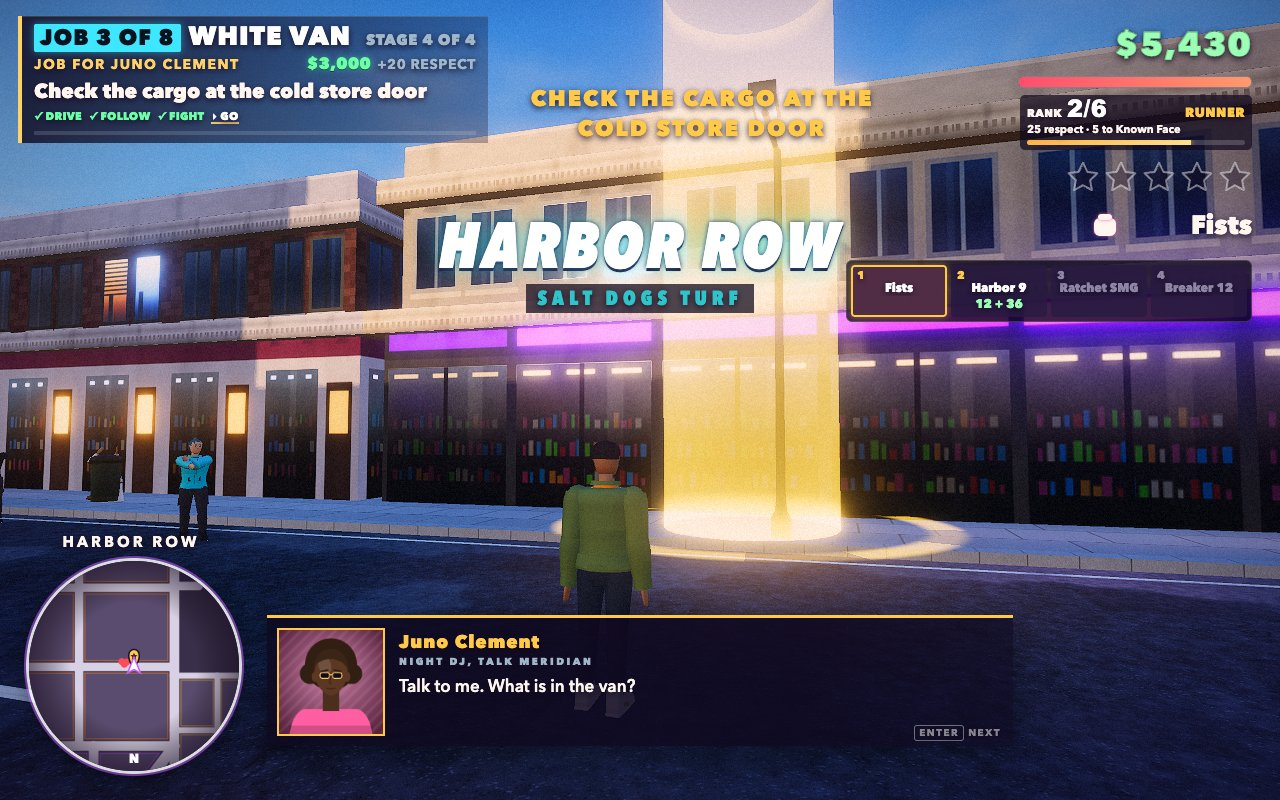
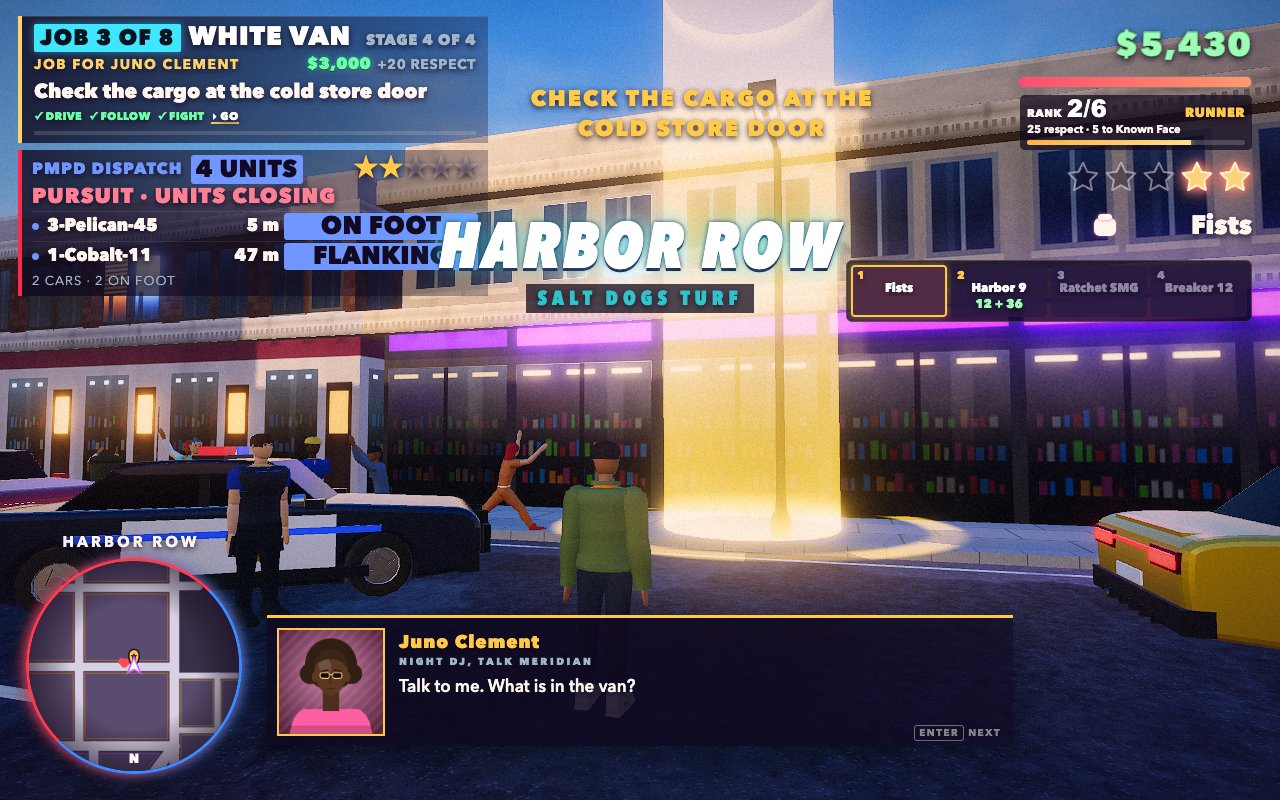
feat(shots): busy Harbor Row street with walkers, traffic and a lit patrol car at two stars

diff --git a/game/src/shotsstreet.js b/game/src/shotsstreet.js
@@ -1,5 +1,7 @@
 // Street screenshot scene: White Van, job 3 of 8, on foot in Harbor Row at dusk. The escort is down, Ilo walks
-// to the Brinewater Cold Store door, Juno asks what is in the van, and the district banner is up.
+// to the Brinewater Cold Store door, Juno asks what is in the van, and the district banner is up. The block is
+// busy: people on the pavement by the shop fronts, cars in both lanes, and a patrol car with its bar lit that has
+// heard the escort go down (two stars).
 import { STORY_POINTS, seedStory } from './shotsstory.js';
 import { storyPlaces } from './missions/setup.js';
 import { MISSION_PLACES } from './data/places.js';
@@ -9,6 +11,19 @@ const CARGO_STAGE = 3;
 const STORE = MISSION_PLACES.find((place) => place.id === 'cold-store');
 /** Ilo's distance out from the door; the camera's distance behind him, its side step and its height. */
 const STREET = { out: 7.5, back: 4.2, side: 1.5, height: 1.8, steps: 60 };
+const STARS = 2;
+const PAINTS = ['#e63946', '#f4f1ea', '#3a86ff', '#ffd23f', '#2ec4b6'];
+
+// [metres out from the shop fronts, metres along the street (screen right is +), facing]: walkers on the pavement
+// going both ways, a pair talking by a door, and a few across the road.
+const WALKERS = [
+  [1.6, -4, 1], [2.4, -5.6, -1], [1.5, -8, -1], [2.7, -9.2, 1], [2.0, -2.6, 1], [2.9, 2.4, -1],
+  [1.6, 3.2, -1], [2.5, 4.4, 1], [1.8, 6.2, -1], [2.6, 8, 1], [1.5, 10, -1], [2.2, 12, 1],
+];
+// [metres out, metres along, facing, type]: cars in the two lanes, one each way, spaced like moving traffic.
+const CARS = [[4.3, -12.5, 1, 'sedan'], [6.0, -18.5, -1, 'coupe'], [4.1, -24, 1, 'pickup'], [4.6, 6.5, 1, 'sedan']];
+/** The patrol car pulled in down the block, nose toward Ilo. */
+const PATROL = { out: 5.6, along: -5, turn: 0.6 };
 
 export const STREET_SHOTS = {
   street: {
@@ -24,12 +39,52 @@ export const STREET_SHOTS = {
       game.missions.jump(JOB, CARGO_STAGE);
       game.hud.announcePlace();
       game.cameraMode = 'manual';
+      const side = { x: store.outZ, z: -store.outX };
+      const at = (out, along) => ({ x: store.x + store.outX * out + side.x * along,
+        z: store.z + store.outZ * out + side.z * along });
+      const alongHeading = (facing) => Math.atan2(side.x * facing, side.z * facing);
+      const cars = CARS.map(([out, along, facing, type], index) => {
+        const car = game.fleet.add(type, PAINTS[index % PAINTS.length]);
+        if (!car) return null;
+        const p = at(out, along);
+        car.position.set(p.x, 0, p.z);
+        car.heading = alongHeading(facing);
+        car.parked = true;
+        return car;
+      });
+      const { police } = game.action;
+      const patrolAt = at(PATROL.out, PATROL.along);
+      const unit = police.units.adopt(game.fleet.reuse('cruiser', '#16203a'), patrolAt.x, patrolAt.z,
+        alongHeading(1) + PATROL.turn);
+      const placeTraffic = () => {
+        cars.forEach((car, index) => {
+          if (!car) return;
+          const [out, along, facing] = CARS[index];
+          const p = at(out, along);
+          car.position.set(p.x, 0, p.z);
+          car.heading = alongHeading(facing);
+        });
+        Object.assign(unit.vehicle, { x: patrolAt.x, z: patrolAt.z, heading: alongHeading(1) + PATROL.turn,
+          vx: 0, vz: 0, speed: 0, yawRate: 0 });
+      };
+      const placeCrowd = () => WALKERS.forEach(([out, along, facing], index) => {
+        const ped = game.pedestrians.peds[index];
+        if (!ped) return;
+        const p = at(out, along);
+        ped.character.position.set(p.x, game.ground.surfaceAt(p.x, p.z).height, p.z);
+        ped.character.heading = alongHeading(facing);
+      });
+      placeCrowd();
       return {
         afterStep(index) {
+          if (index === STREET.steps - 2) {
+            police.setStars(STARS);
+            placeTraffic();
+            placeCrowd();
+          }
           if (index !== STREET.steps - 1) return;
           if (!game.dialogue.conversation.complete) game.dialogue.conversation.skip();
           // Over his right shoulder, a step out into the street, looking past him at the store front.
-          const side = { x: store.outZ, z: -store.outX };
           const y = game.ground.surfaceAt(x, z).height;
           const cam = game.camera;
           cam.position.set(x + store.outX * STREET.back + side.x * STREET.side, y + STREET.height,
